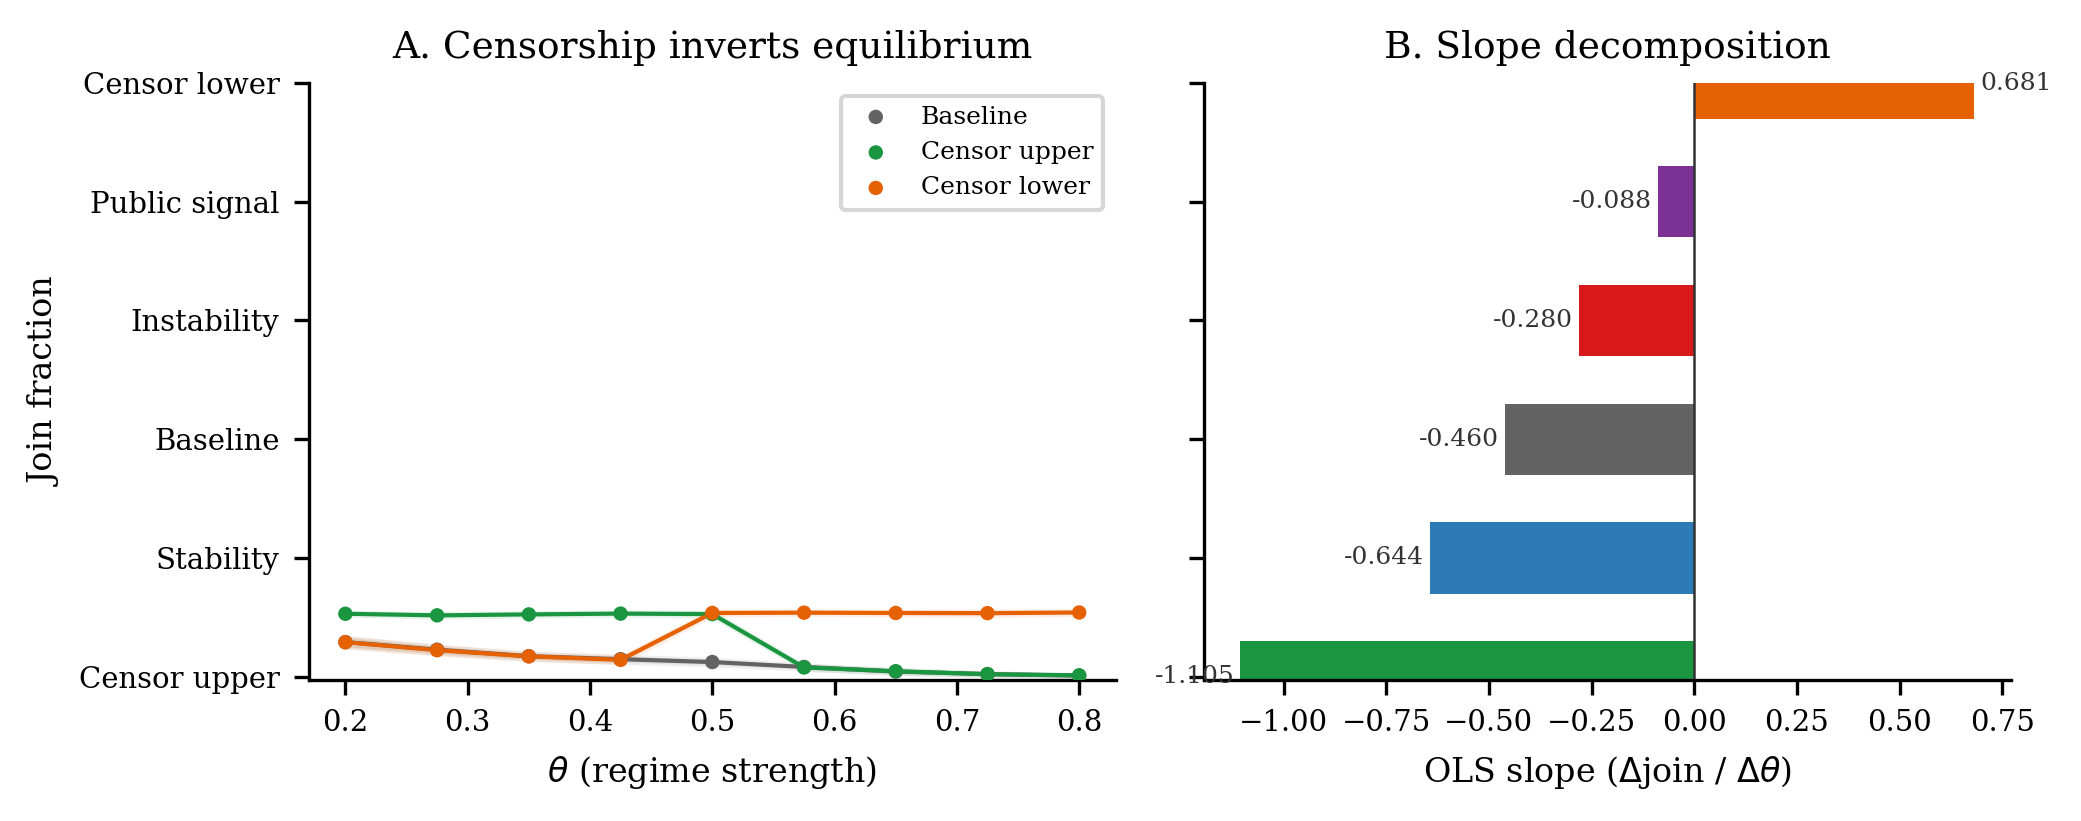
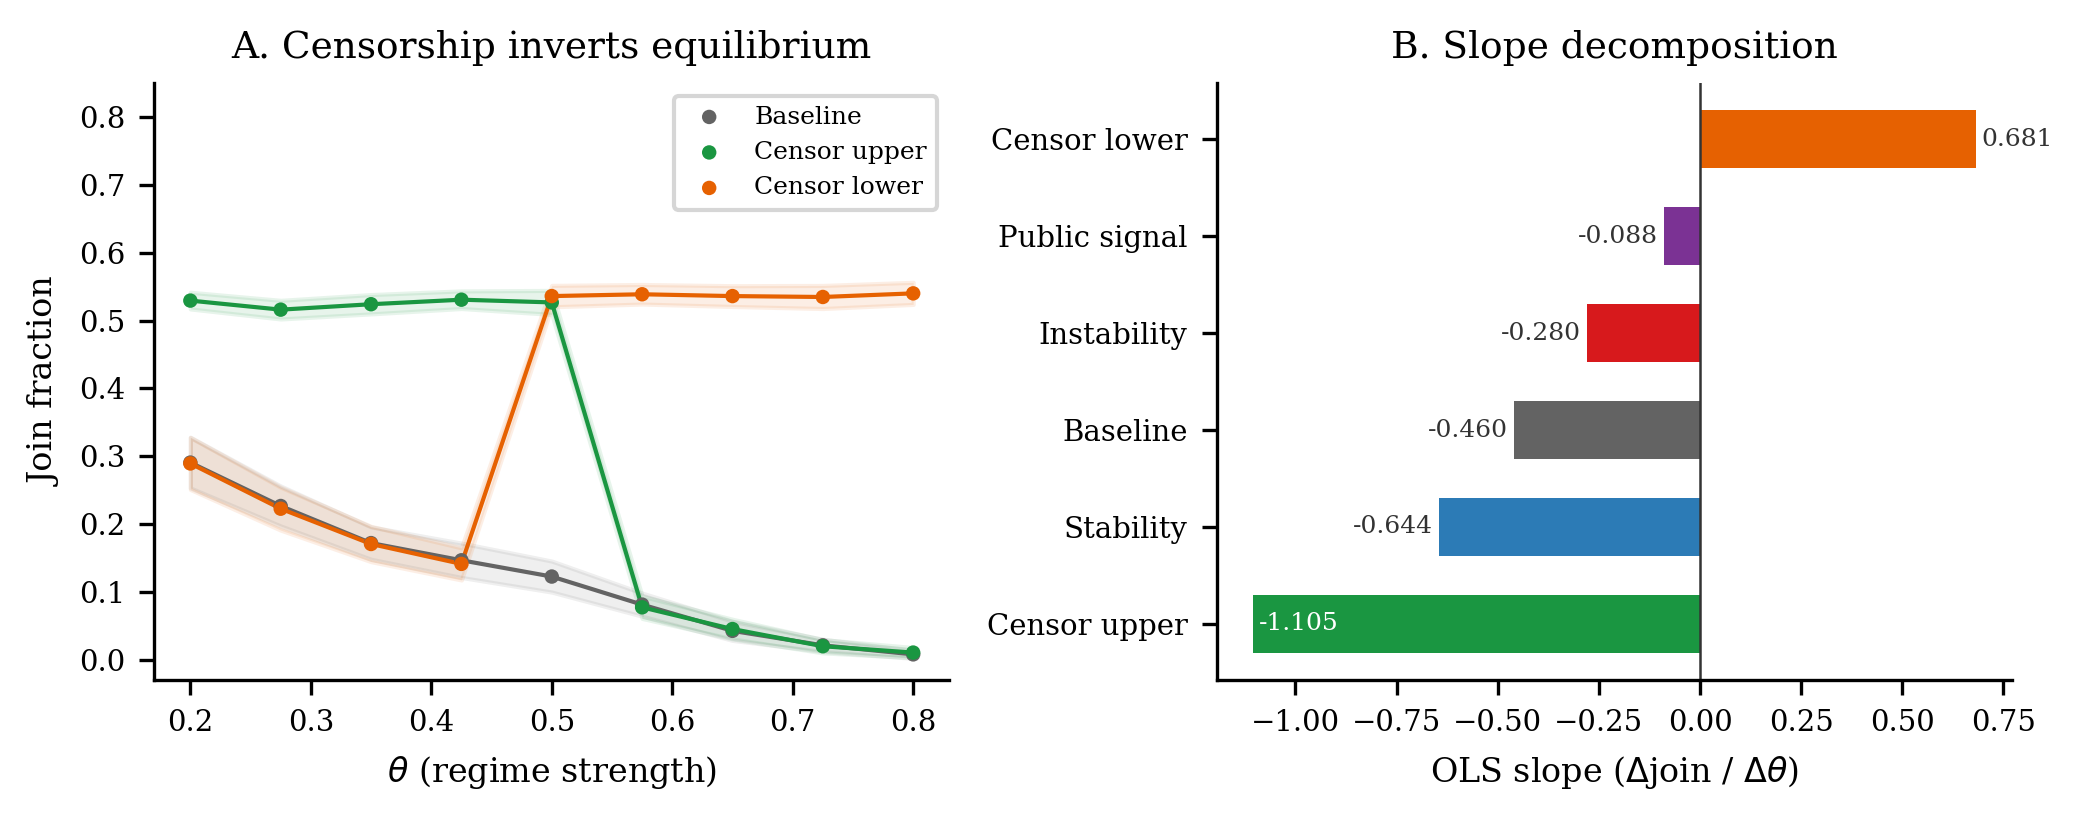
Fix fig09 shared y-axis bug causing categorical labels on Panel A
Removed sharey=True from fig09_censorship() — the shared axis forced
Panel A (line chart) to inherit Panel B's (bar chart) categorical
y-tick labels. Also placed long-bar value labels inside the bar to
prevent overlap with y-tick text.

diff --git a/analysis/make_figures.py b/analysis/make_figures.py
@@ -686,7 +686,7 @@ def fig09_censorship():
         print("  SKIPPED fig09 — no infodesign data")
         return
 
-    fig, axes = plt.subplots(1, 2, figsize=(TEXT_W, 2.8), sharey=True)
+    fig, axes = plt.subplots(1, 2, figsize=(TEXT_W, 2.8))
 
     ax = axes[0]
     for design in ["baseline", "censor_upper", "censor_lower"]:
@@ -733,10 +733,15 @@ def fig09_censorship():
         ax.set_title("B. Slope decomposition")
 
         for i, (_, row) in enumerate(sd.iterrows()):
-            offset = 0.015 if row["slope"] >= 0 else -0.015
-            ha = "left" if row["slope"] >= 0 else "right"
+            if row["slope"] >= 0:
+                offset, ha, color = 0.015, "left", "#333"
+            elif row["slope"] < -0.8:
+                # Very long negative bar: place label inside
+                offset, ha, color = 0.015, "left", "white"
+            else:
+                offset, ha, color = -0.015, "right", "#333"
             ax.text(row["slope"] + offset, i, f'{row["slope"]:.3f}',
-                    fontsize=6, va="center", ha=ha, color="#333")
+                    fontsize=6, va="center", ha=ha, color=color)
 
     plt.tight_layout()
     save(fig, "fig09_censorship")
